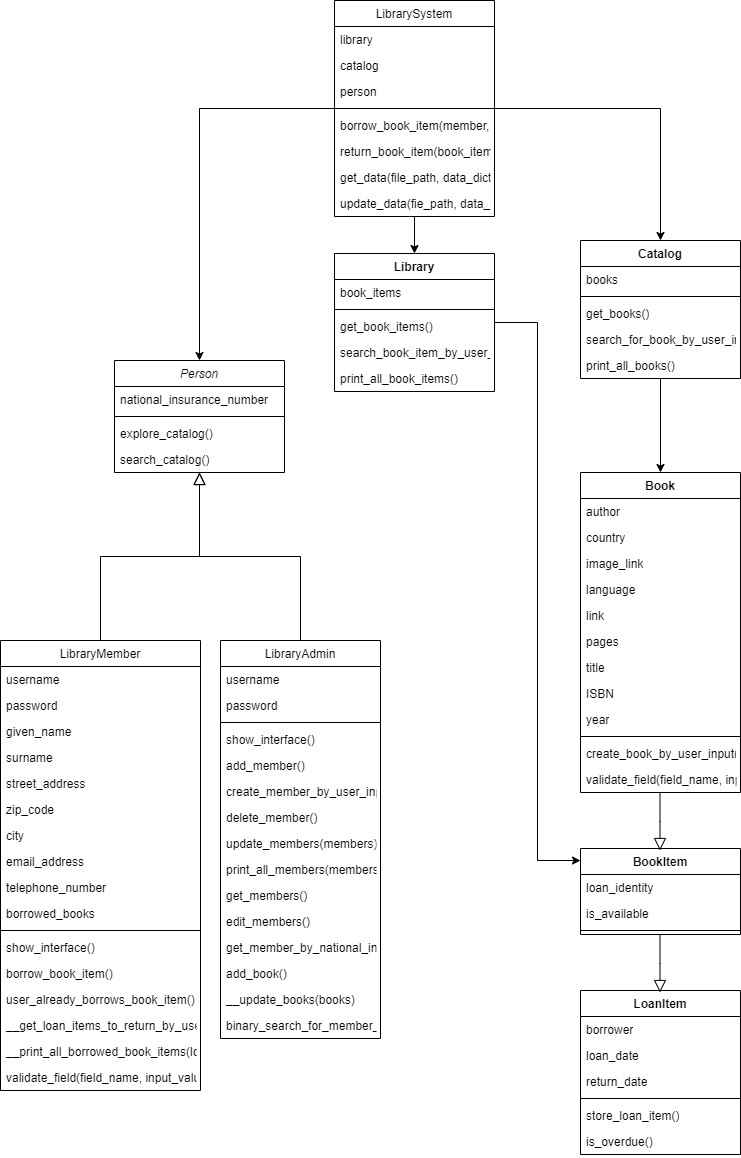
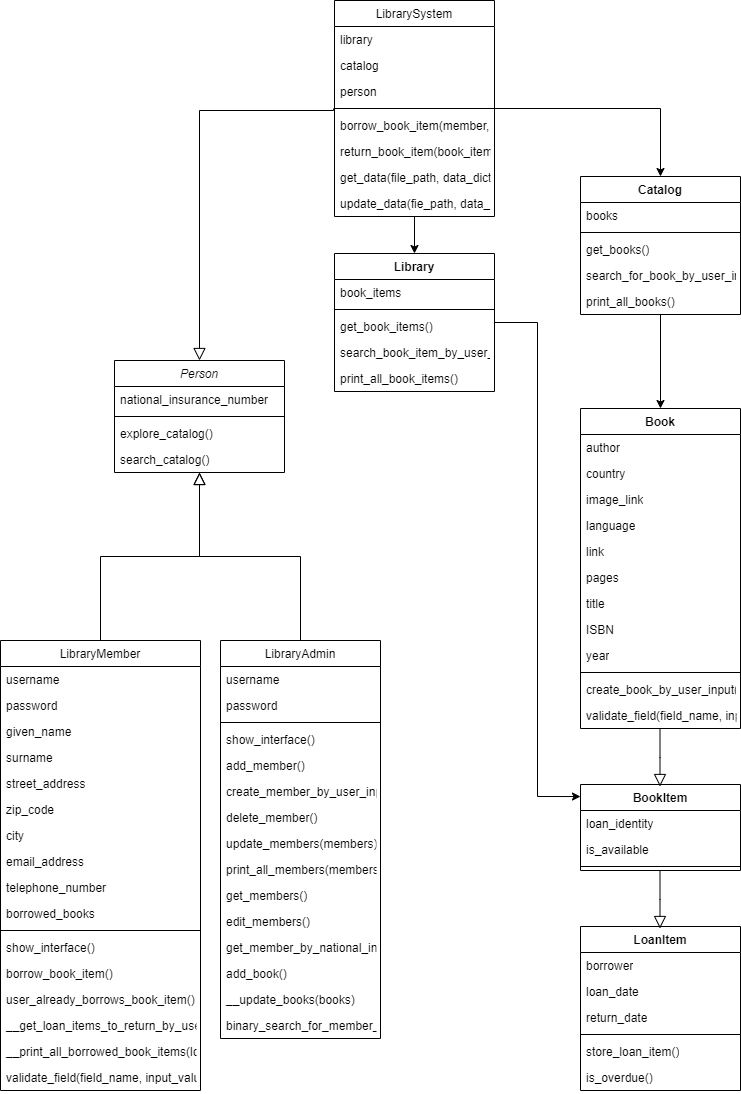
Small class diagram change
A Person class inherits the LibrarySystem now, since a Person class needs to interact with the library system in some way, for example to check out books.

diff --git a/Classes/Person.py b/Classes/Person.py
@@ -1,8 +1,10 @@
+from Classes.LibrarySystem import LibrarySystem
 import json
 
 
-class Person:
+class Person(LibrarySystem):
     def __init__(self):
+        super.__init__()
         self.national_insurance_number = Person.get_new_national_insurance_number()
 
     @staticmethod
